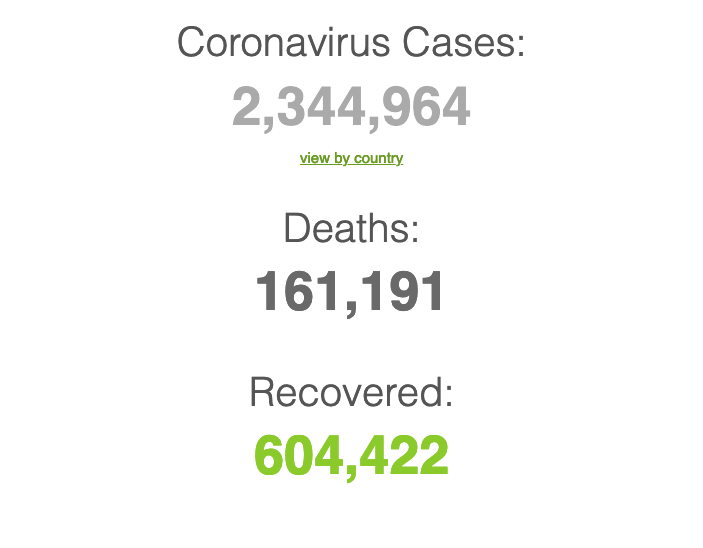
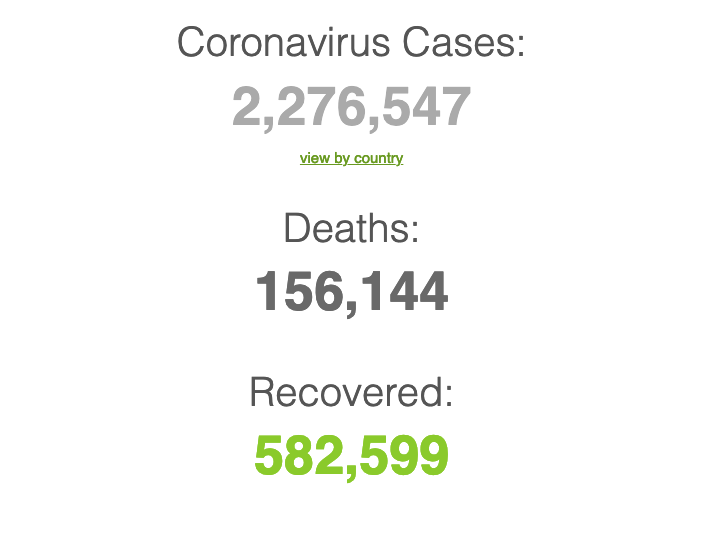
24시 정기 반복 업데이트

diff --git a/data/new_content[4월19일].html b/data/new_content[4월19일].html
@@ -8,8 +8,8 @@
   <span id="kr1">4월19일</span> 00시 00분)
 </p>
 <figure class="imageblock alignCenter">
-<span class="0" data-lightbox="lightbox" data-url="http://cfile25.uf.tistory.com/image/994097345E9B4DF20726CB">
-<img class="0" height="403px" src="http://cfile25.uf.tistory.com/image/994097345E9B4DF20726CB"/>
+<span class="0" data-lightbox="lightbox" data-url="http://cfile5.uf.tistory.com/image/99C22C355E9B16181ACA6B">
+<img class="0" height="403px" src="http://cfile5.uf.tistory.com/image/99C22C355E9B16181ACA6B"/>
 </span>
 </figure>
 <br/>
@@ -18,22 +18,21 @@
 <b>
 <span id="kr2">4월19일</span>
   00시 기준, 전일대비 코로나-19 바이러스 확진자의 수는 약
-  <span id="tn">99436</span>명이 증가한 <span id="t">2,313,897 </span>명이 되었습니다.</b>
+  <span id="tn">62086</span>명이 증가한 <span id="t">2,276,547 </span>명이 되었습니다.</b>
 <br/>
 <br/>
 <br/>
 <figure class="imageblock alignCenter">
-<span class="1" data-lightbox="lightbox" data-url="http://cfile24.uf.tistory.com/image/99298C3C5E9B4DF209BFB8">
-<img class="1" height="403px" src="http://cfile24.uf.tistory.com/image/99298C3C5E9B4DF209BFB8"/>
+<span class="1" data-lightbox="lightbox" data-url="http://cfile1.uf.tistory.com/image/991CB44C5E9B1618139C70">
+<img class="1" height="403px" src="http://cfile1.uf.tistory.com/image/991CB44C5E9B1618139C70"/>
 </span>
 </figure>
 <br/>
 <br/>
 <br/>
-<b><p>[확진자 수 기준 상위 20개국, 00시 기준]</p></b>
 <figure class="imageblock alignCenter">
-<span class="2" data-lightbox="lightbox" data-url="http://cfile1.uf.tistory.com/image/998FBE415E9B4DF3072968">
-<img class="2" height="403px" src="http://cfile1.uf.tistory.com/image/998FBE415E9B4DF3072968"/>
+<span class="2" data-lightbox="lightbox" data-url="http://cfile30.uf.tistory.com/image/997E824A5E9B1619173F49">
+<img class="2" height="403px" src="http://cfile30.uf.tistory.com/image/997E824A5E9B1619173F49"/>
 </span>
 </figure>
 <p>
@@ -43,14 +42,13 @@
 <br/>
 <b>
 <u>
-      한국의 경우, <span id="kr3">4월19일</span> 00시 기준 전일대비
-      <span id="kn">18</span>명이 증가하여 총 코로나 바이러스 확진자 수가
-      <span id="k">10,653</span>명이 되었습니다.
+      한국의 경우, <span id="kr3">4월19일</span> 00시 기준 전일대비 <span id="kn">18</span>명이 증가하여 총 코로나 바이러스 확진자 수가 <span id="k">10,653</span>명이
+      되었습니다.
     </u>
 <br/>
 <br/>
 <span id="2">미국</span>의 경우, 확진자의 수가 전일대비
-    <span id="2n">47752</span>명가량 증가하였습니다.
+    <span id="2n">29731</span>명가량 증가하였습니다.
     <br/>
 <br/>
 <span id="3">스페인</span>의 경우, 전일대비 확진자의 수가
@@ -58,20 +56,19 @@
     <br/>
 <br/>
 <span id="4">이탈리아</span>의 경우, 확진자의 수가 전일대비
-    <span id="4n">6984</span>명가량 증가하였습니다.
+    <span id="4n">3493</span>명가량 증가하였습니다.
     <br/>
 <br/>
 <span id="5">프랑스</span>의 경우, 전일대비 확진자의 수가
-    <span id="5n">-13234</span>명이 증가하였습니다.
+    <span id="5n">-17058</span>명이 증가하였습니다.
     <br/>
 <br/>
 <span id="6">독일</span>의 경우, 전일대비 확진자의 수가
-    <span id="6n">4416</span>명가량 증가하였습니다.
+    <span id="6n">3827</span>명가량 증가하였습니다.
     <br/>
 <br/>
     전일(<span id="y">4월18일</span> 00시)의 확진자 수 현황을 확인하시고 싶으시다면
     아래의 링크를 확인해 주세요.
     <br/>
 <a href="https://digitalnomad-lee.tistory.com/138" id="p">https://digitalnomad-lee.tistory.com/138</a>
-</b>
-</p>
+</b></p>

diff --git a/test_pythn.py b/test_pythn.py
@@ -1,0 +1,38 @@
+import telegram
+from selenium import webdriver
+from selenium.webdriver.firefox.options import Options
+from apscheduler.schedulers.blocking import BlockingScheduler
+
+
+token = '1001744474:AAEYkSP8P9mIUcsPT_Pzx8pPIbKpuw1Pr_8'
+bot = telegram.Bot(token=token)
+sched = BlockingScheduler()
+
+
+def selenium_test():
+    options = Options()
+    options.add_argument("--headless")
+    driver = webdriver.Firefox(options=options, executable_path="/home/ubuntu/settings/geckodriver/geckodriver")
+    driver.get("http://google.com/")
+    print(driver.title)
+    driver.quit()   
+
+def chatBot():
+    print("chatBot")
+    bot.sendMessage(chat_id='1020617783', text="URL")
+    print("chatBot 완료")
+
+
+
+# 최초 1회 시작
+# chatBot()
+
+# 시간마다 반복시키기
+# sched.add_job(start, 'interval', hours=24)
+
+print("시작")
+sched.add_job(chatBot,'cron', hour=20, minute=4)
+
+sched.start()
+
+

diff --git a/main.py b/main.py
@@ -2,7 +2,7 @@ import tstory as tistory
 import chroller as chrolling
 import file_handling as file_handle
 import element_capture as cap
-import telegram
+import telegram as tel
 from apscheduler.schedulers.blocking import BlockingScheduler
 
 
@@ -42,8 +42,8 @@ def start():
 
 def chatBot(URL):
     print("chatBot")
-    token = '1001744474:AAEmsYJu9KHxb8Iza4d0OfHw2kpPE7BXZg4'
-    bot = telegram.Bot(token=token)
+    token = '1001744474:AAEYkSP8P9mIUcsPT_Pzx8pPIbKpuw1Pr_8'
+    bot = tel.Bot(token=token)
     bot.sendMessage(chat_id='1020617783', text=URL)
     print("chatBot 완료")
 
